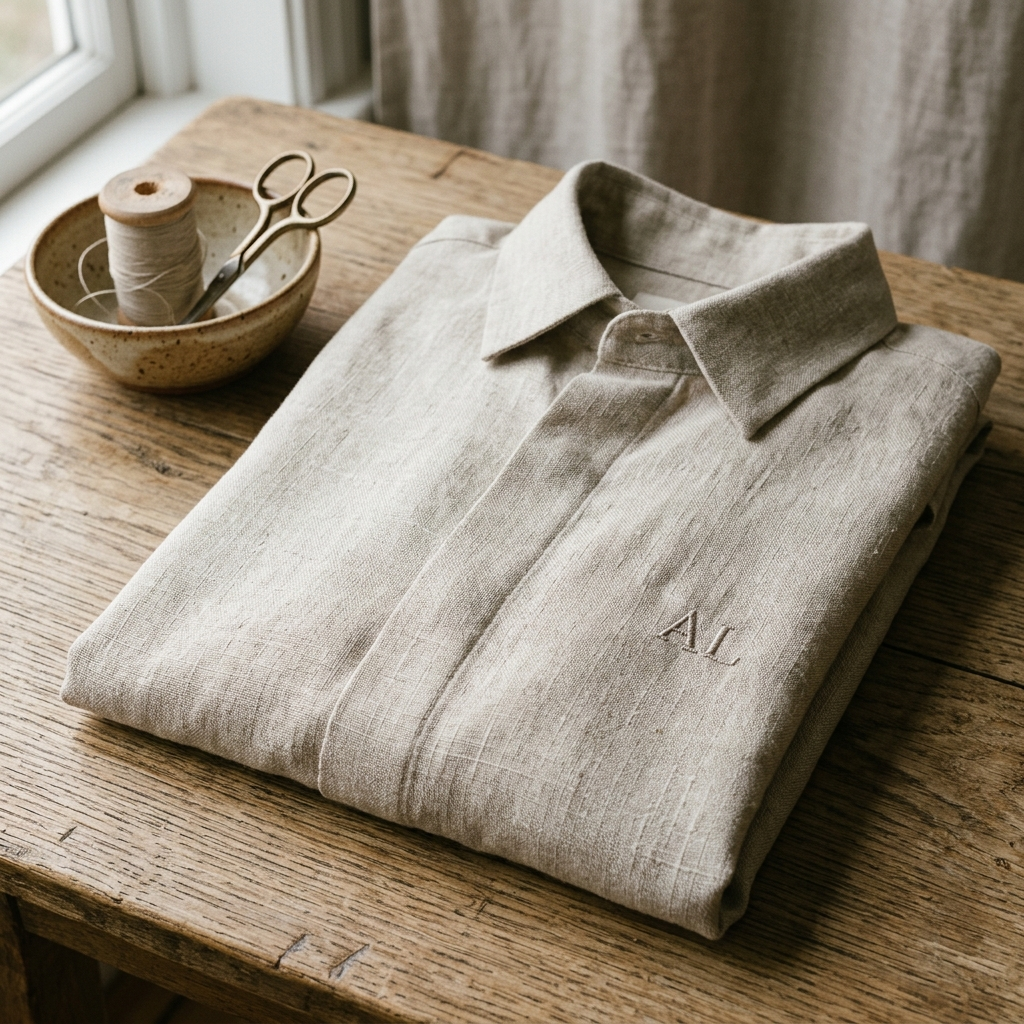
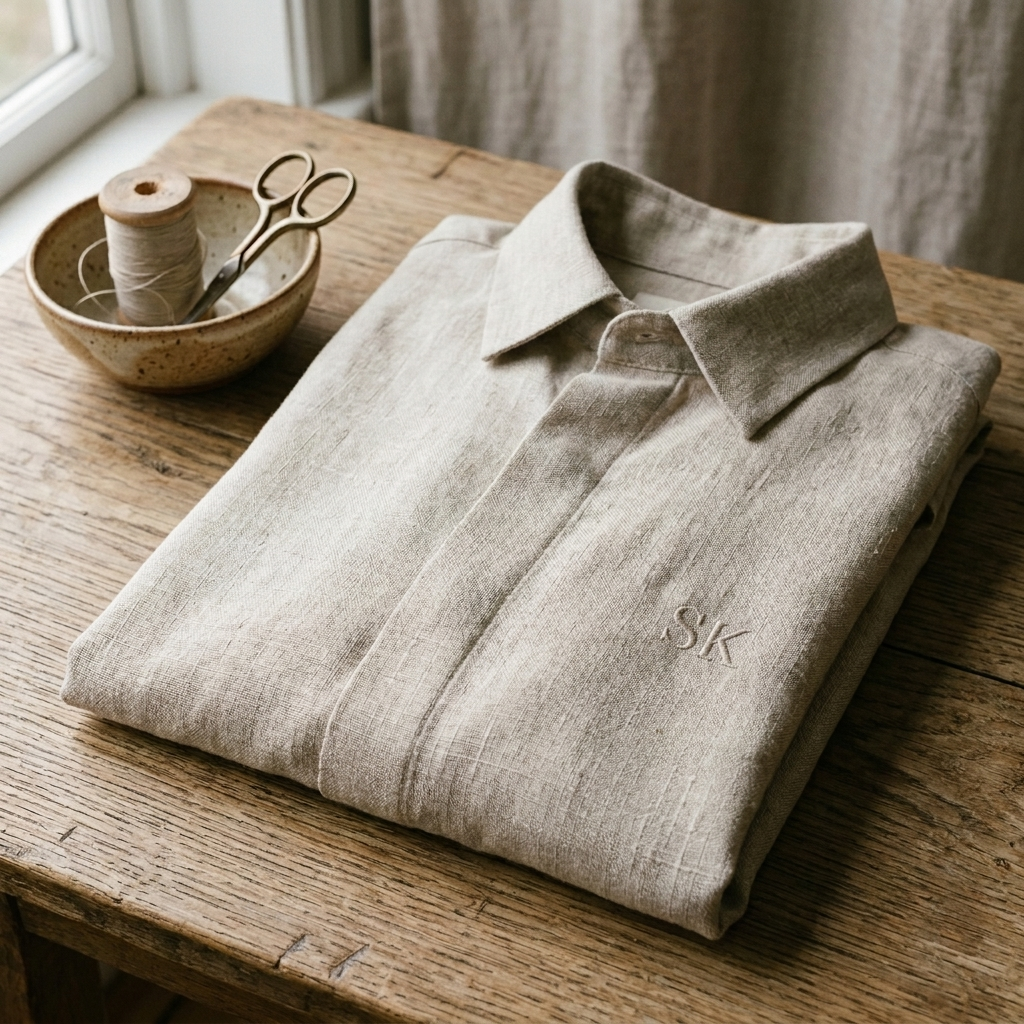
Fix pocket consistency, pleating, hero crop, and monogram
- Cargo/pleated trousers: back pockets now match wide-leg-trousers'
  welt-pocket style across all 4 colors (was flap+button, inconsistent
  across colors before)
- Pleated trousers: regenerated with much deeper, more voluminous
  pleating so it reads distinctly from wide-leg trousers; consistent
  belt loops and footwear across all 4 colors
- Cargo trousers navy-back: fixed a framing bug from this pass where
  the crop showed the model's full body/face instead of the neck-down
  crop used everywhere else in the catalog
- Our Story hero: object-top crop so the model's head isn't cut off on
  laptop-width viewports
- Our Story materials photo: fixed embroidered monogram from "AL" to "SK"

diff --git a/website/src/data/catalog.ts b/website/src/data/catalog.ts
@@ -121,13 +121,13 @@ export const catalog: CatalogItem[] = [
     descriptor: "Relaxed leg, pleated",
     badge: "NEW",
     gradient: ["#efe9df", "#e2ddd2"],
-    image: "/catalog/pleated-trousers-ivory-front.png",
-    backImage: "/catalog/pleated-trousers-ivory-back.png",
+    image: "/catalog/pleated-trousers-ivory-front-v2.png",
+    backImage: "/catalog/pleated-trousers-ivory-back-v2.png",
     colorImages: {
-      Ivory: { front: "/catalog/pleated-trousers-ivory-front.png", back: "/catalog/pleated-trousers-ivory-back.png" },
-      White: { front: "/catalog/pleated-trousers-white-front.png", back: "/catalog/pleated-trousers-white-back.png" },
-      Navy: { front: "/catalog/pleated-trousers-navy-front.png", back: "/catalog/pleated-trousers-navy-back.png" },
-      Burgundy: { front: "/catalog/pleated-trousers-burgundy-front.png", back: "/catalog/pleated-trousers-burgundy-back.png" },
+      Ivory: { front: "/catalog/pleated-trousers-ivory-front-v2.png", back: "/catalog/pleated-trousers-ivory-back-v2.png" },
+      White: { front: "/catalog/pleated-trousers-white-front-v2.png", back: "/catalog/pleated-trousers-white-back-v2.png" },
+      Navy: { front: "/catalog/pleated-trousers-navy-front-v2.png", back: "/catalog/pleated-trousers-navy-back-v2.png" },
+      Burgundy: { front: "/catalog/pleated-trousers-burgundy-front-v2.png", back: "/catalog/pleated-trousers-burgundy-back-v2.png" },
     },
   },
   {
@@ -139,12 +139,12 @@ export const catalog: CatalogItem[] = [
     badge: "NEW",
     gradient: ["#e9e2d2", "#ddd3bd"],
     image: "/catalog/cargo-trousers-ivory-front-v2.png",
-    backImage: "/catalog/cargo-trousers-ivory-back.png",
+    backImage: "/catalog/cargo-trousers-ivory-back-v2.png",
     colorImages: {
-      Ivory: { front: "/catalog/cargo-trousers-ivory-front-v2.png", back: "/catalog/cargo-trousers-ivory-back.png" },
-      White: { front: "/catalog/cargo-trousers-white-front.png", back: "/catalog/cargo-trousers-white-back-v2.png" },
-      Navy: { front: "/catalog/cargo-trousers-navy-front.png", back: "/catalog/cargo-trousers-navy-back.png" },
-      Burgundy: { front: "/catalog/cargo-trousers-burgundy-front.png", back: "/catalog/cargo-trousers-burgundy-back.png" },
+      Ivory: { front: "/catalog/cargo-trousers-ivory-front-v2.png", back: "/catalog/cargo-trousers-ivory-back-v2.png" },
+      White: { front: "/catalog/cargo-trousers-white-front.png", back: "/catalog/cargo-trousers-white-back-v3.png" },
+      Navy: { front: "/catalog/cargo-trousers-navy-front.png", back: "/catalog/cargo-trousers-navy-back-v3.png" },
+      Burgundy: { front: "/catalog/cargo-trousers-burgundy-front.png", back: "/catalog/cargo-trousers-burgundy-back-v2.png" },
     },
   },
   {

diff --git a/website/src/app/our-story/page.tsx b/website/src/app/our-story/page.tsx
@@ -85,7 +85,7 @@ export default function OurStoryPage() {
           fill
           priority
           sizes="100vw"
-          className="object-cover"
+          className="object-cover object-top"
         />
         <div className="absolute inset-0 flex flex-col items-center justify-center px-6 pb-10 text-center">
           <p className="rounded-full bg-white/90 px-3 py-1 text-[11px] tracking-wide text-text-3 uppercase backdrop-blur-sm">
